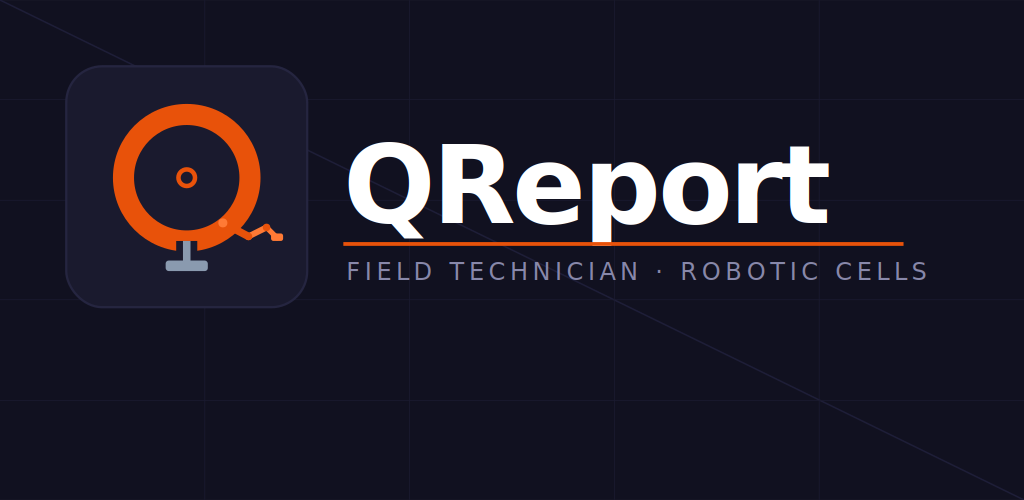
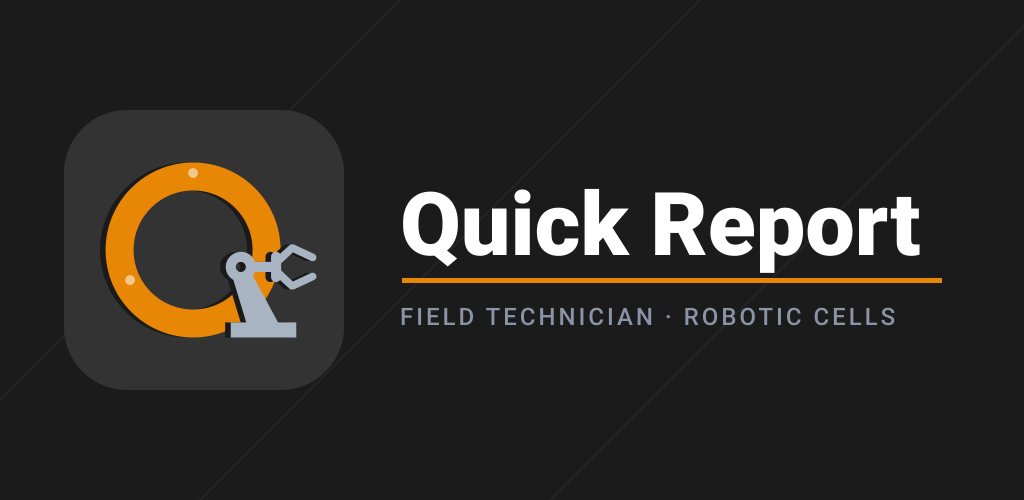
1.3.0 - Rename QReport to Quick Report, simplify deploy, update work history
Rebrand the app across MDX, privacy policy and assets; drop the unused
Postgres service from compose.yaml/deploy.sh since the site doesn't need
a database; add the Polytec field service role to work experience.

Fix deploy.sh: git pull was silently skipped when the script is run from
inside the portfolio folder (its intended usage) because the directory
check assumed it was launched one level up. Now it pulls in place and
fails loudly if run outside a git repo.

Changed region(s): [[0.0625, 0.21, 0.9375, 0.78], [0.375, 0.6, 0.875, 0.66], [0.0938, 0.12, 0.2812, 0.15]]

diff --git a/src/app/work/qreport/privacy-policy/page.tsx b/src/app/work/qreport/privacy-policy/page.tsx
@@ -3,13 +3,13 @@ import { baseURL } from "@/app/resources";
 
 export async function generateMetadata() {
   return {
-    title: "Privacy Policy — QReport",
+    title: "Privacy Policy — Quick Report",
     description:
-      "Privacy policy for the QReport Android application by Luca Calvetti.",
+      "Privacy policy for the Quick Report Android application by Luca Calvetti.",
     openGraph: {
-      title: "Privacy Policy — QReport",
+      title: "Privacy Policy — Quick Report",
       description:
-        "Privacy policy for the QReport Android application by Luca Calvetti.",
+        "Privacy policy for the Quick Report Android application by Luca Calvetti.",
       type: "website",
       url: `https://${baseURL}/work/qreport/privacy-policy`,
     },
@@ -23,12 +23,12 @@ export default function PrivacyPolicy() {
       <Column gap="4">
         <Heading variant="display-strong-s">Privacy Policy</Heading>
         <Text variant="heading-default-xs" onBackground="neutral-weak">
-          QReport
+          Quick Report
         </Text>
       </Column>
 
       <Text variant="body-default-s" onBackground="neutral-weak">
-        Ultimo aggiornamento: Giugno 2026 · Versione app: 1.0
+        Ultimo aggiornamento: Luglio 2026 · Versione app: 1.0.0
       </Text>
 
       {/* Summary highlight */}
@@ -44,7 +44,7 @@ export default function PrivacyPolicy() {
           IN SINTESI
         </Text>
         <Text variant="body-default-m">
-          QReport non raccoglie, non trasmette e non vende alcun dato personale a terze parti.
+          Quick Report non raccoglie, non trasmette e non vende alcun dato personale a terze parti.
           Tutti i dati inseriti nell'app rimangono sul dispositivo dell'utente o sul server
           scelto dall'utente stesso.
         </Text>
@@ -56,7 +56,7 @@ export default function PrivacyPolicy() {
           1. Informazioni generali
         </Heading>
         <Text variant="body-default-m">
-          QReport è un'applicazione professionale per tecnici di campo, progettata per la
+          Quick Report è un'applicazione professionale per tecnici di campo, progettata per la
           gestione di report di ispezione su celle robotizzate e impianti industriali.
           Lo sviluppatore è Luca Calvetti (
           <a href="mailto:[email redacted]">[email redacted]</a>).
@@ -69,13 +69,13 @@ export default function PrivacyPolicy() {
           2. Dati raccolti
         </Heading>
         <Text variant="body-default-m">
-          QReport <strong>non raccoglie dati personali</strong>. Nello specifico:
+          Quick Report <strong>non raccoglie dati personali</strong>. Nello specifico:
         </Text>
         <Column as="ul" gap="4" paddingLeft="16">
           <Text as="li" variant="body-default-m">Non viene richiesto alcun account Google, Facebook o analogo.</Text>
           <Text as="li" variant="body-default-m">Non vengono inviati dati analitici o di utilizzo a server di terze parti.</Text>
           <Text as="li" variant="body-default-m">Non vengono utilizzati SDK pubblicitari o di tracciamento.</Text>
-          <Text as="li" variant="body-default-m">Non vengono raccolti identificativi del dispositivo, indirizzi IP o dati di localizzazione.</Text>
+          <Text as="li" variant="body-default-m">Non vengono raccolti indirizzi IP o dati di localizzazione.</Text>
         </Column>
       </Column>
 
@@ -100,7 +100,7 @@ export default function PrivacyPolicy() {
           4. Sincronizzazione opzionale
         </Heading>
         <Text variant="body-default-m">
-          QReport include una funzionalità di sincronizzazione remota{" "}
+          Quick Report include una funzionalità di sincronizzazione remota{" "}
           <strong>opzionale e disattivata per impostazione predefinita</strong>.
           Se l'utente sceglie di attivarla, può configurare l'URL di un proprio server Ktor/PostgreSQL.
           In questo caso:
@@ -144,7 +144,7 @@ export default function PrivacyPolicy() {
         <Text variant="body-default-m">
           Tutti i dati sono sotto il controllo esclusivo dell'utente. È possibile eliminare
           tutti i dati dell'app in qualsiasi momento tramite le impostazioni di sistema Android
-          (<em>Impostazioni → App → QReport → Cancella dati</em>) oppure disinstallando l'applicazione.
+          (<em>Impostazioni → App → Quick Report → Cancella dati</em>) oppure disinstallando l'applicazione.
         </Text>
       </Column>
 
@@ -154,7 +154,7 @@ export default function PrivacyPolicy() {
           7. Minori
         </Heading>
         <Text variant="body-default-m">
-          QReport è un'applicazione professionale destinata a tecnici adulti. Non è progettata
+          Quick Report è un'applicazione professionale destinata a tecnici adulti. Non è progettata
           né destinata a utenti di età inferiore ai 18 anni.
         </Text>
       </Column>
@@ -182,7 +182,7 @@ export default function PrivacyPolicy() {
       </Column>
 
       <Text variant="body-default-s" onBackground="neutral-weak">
-        © 2026 Luca Calvetti · QReport
+        © 2026 Luca Calvetti · Quick Report
       </Text>
     </Column>
   );

diff --git a/src/app/work/qreport/privacy-policy/privacy.html b/src/app/work/qreport/privacy-policy/privacy.html
@@ -3,7 +3,7 @@
 <head>
 <meta charset="UTF-8">
 <meta name="viewport" content="width=device-width, initial-scale=1.0">
-<title>Privacy Policy — QReport</title>
+<title>Privacy Policy — Quick Report</title>
 <style>
   :root {
     --orange: #E8520A;
@@ -140,7 +140,7 @@
     <circle cx="27" cy="26" r="1.5" fill="#FF7A35"/>
   </svg>
   <div>
-    <h1>QReport</h1>
+    <h1>Quick Report</h1>
     <span>Privacy Policy</span>
   </div>
 </header>
@@ -148,29 +148,29 @@
 
 <main>
 
-  <p class="meta">Ultimo aggiornamento: Giugno 2026 &nbsp;·&nbsp; Versione app: 1.0</p>
+  <p class="meta">Ultimo aggiornamento: Luglio 2026 &nbsp;·&nbsp; Versione app: 1.0.0</p>
 
   <div class="highlight">
     <strong>In sintesi</strong>
-    QReport non raccoglie, non trasmette e non vende alcun dato personale a terze parti.
+    Quick Report non raccoglie, non trasmette e non vende alcun dato personale a terze parti.
     Tutti i dati inseriti nell'app rimangono sul dispositivo dell'utente o sul server
     scelto dall'utente stesso.
   </div>
 
   <h2>1. Informazioni generali</h2>
   <p>
-    QReport è un'applicazione professionale per tecnici di campo, progettata per la
+    Quick Report è un'applicazione professionale per tecnici di campo, progettata per la
     gestione di report di ispezione su celle robotizzate e impianti industriali.
     Lo sviluppatore è Luca Calvetti (<a href="mailto:[email redacted]">[email redacted]</a>).
   </p>
 
   <h2>2. Dati raccolti</h2>
-  <p>QReport <strong>non raccoglie dati personali</strong>. Nello specifico:</p>
+  <p>Quick Report <strong>non raccoglie dati personali</strong>. Nello specifico:</p>
   <ul>
     <li>Non viene richiesto alcun account Google, Facebook o analogo.</li>
     <li>Non vengono inviati dati analitici o di utilizzo a server di terze parti.</li>
     <li>Non vengono utilizzati SDK pubblicitari o di tracciamento.</li>
-    <li>Non vengono raccolti identificativi del dispositivo, indirizzi IP o dati di localizzazione.</li>
+    <li>Non vengono raccolti indirizzi IP o dati di localizzazione.</li>
   </ul>
 
   <h2>3. Dati inseriti dall'utente</h2>
@@ -185,11 +185,10 @@
 
   <h2>4. Sincronizzazione opzionale</h2>
   <p>
-    QReport include una funzionalità di sincronizzazione remota <strong>opzionale e disattivata per impostazione predefinita</strong>.
+    Quick Report include una funzionalità di sincronizzazione remota <strong>opzionale e disattivata per impostazione predefinita</strong>.
     Se l'utente sceglie di attivarla, può configurare l'URL di un proprio server Ktor/PostgreSQL.
     In questo caso:
-  </p>
-  <ul>
+  </p>  <ul>
     <li>I dati vengono trasmessi esclusivamente al server specificato dall'utente.</li>
     <li>Le credenziali di accesso al server sono conservate in locale in forma cifrata
         (<code>EncryptedSharedPreferences</code>).</li>
@@ -208,12 +207,12 @@
   <p>
     Tutti i dati sono sotto il controllo esclusivo dell'utente. È possibile eliminare
     tutti i dati dell'app in qualsiasi momento tramite le impostazioni di sistema Android
-    (<em>Impostazioni → App → QReport → Cancella dati</em>) oppure disinstallando l'applicazione.
+    (<em>Impostazioni → App → Quick Report → Cancella dati</em>) oppure disinstallando l'applicazione.
   </p>
 
   <h2>7. Minori</h2>
   <p>
-    QReport è un'applicazione professionale destinata a tecnici adulti. Non è progettata
+    Quick Report è un'applicazione professionale destinata a tecnici adulti. Non è progettata
     né destinata a utenti di età inferiore ai 18 anni.
   </p>
 
@@ -232,7 +231,7 @@
 </main>
 
 <footer>
-  &copy; 2026 Luca Calvetti &nbsp;·&nbsp; QReport &nbsp;·&nbsp;
+  &copy; 2026 Luca Calvetti &nbsp;·&nbsp; Quick Report &nbsp;·&nbsp;
   <a href="mailto:[email redacted]">[email redacted]</a>
 </footer>
 

diff --git a/src/app/resources/content.js b/src/app/resources/content.js
@@ -102,8 +102,23 @@ const about = {
     title: "Esperienze lavorative",
     experiences: [
       {
+        company: "Polytec S.p.A.",
+        timeframe: "2025 - Oggi",
+        role: "Elettromeccanico - Field Service Engineer",
+        achievements: [
+          <>Field Service Engineer su isole robotizzate presso i clienti</>,
+          <>
+            Installazione, manutenzione e troubleshooting elettromeccanico di
+            celle e isole robotizzate
+          </>,
+          <>Diagnosi e risoluzione guasti direttamente sul campo, a contatto con l'operatività del cliente</>,
+          <>Interfaccia tecnica tra azienda e cliente per interventi di assistenza</>,
+        ],
+        images: [],
+      },
+      {
         company: "Cartiere del Garda S.p.A.",
-        timeframe: "2010 - Oggi",
+        timeframe: "2010 - 2025",
         role: "Operaio a ciclo continuo",
         achievements: [
           <>Conduttore specializzato di bobinatrici industriali</>,